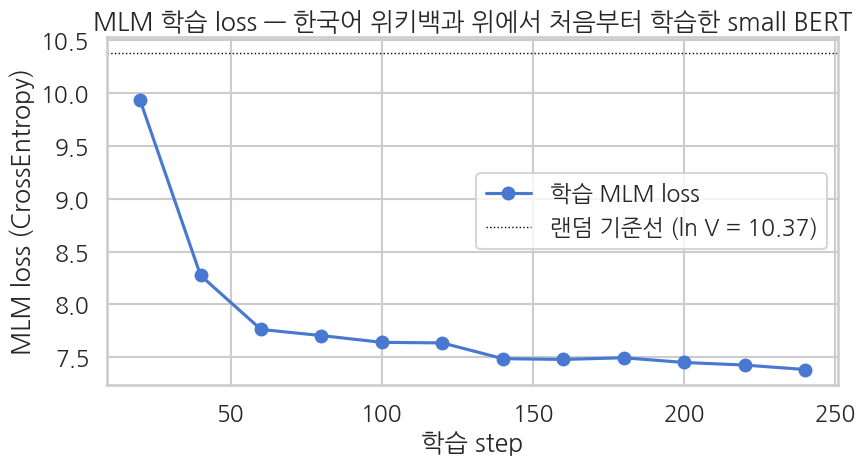
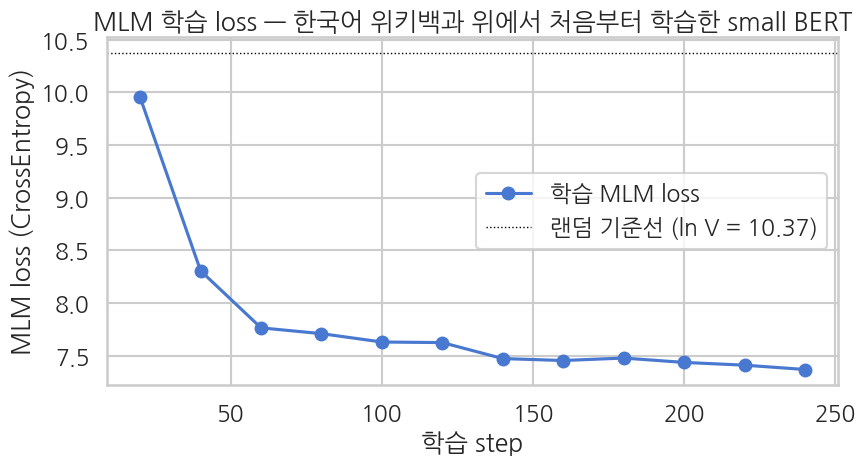
Ch 22 원고 tex 재생성 — 검수 수정·시드 재실행 반영
notebook_to_tex.py --chapters 22 --use-executed, pandoc 2.19.2 (규정
버전 바이너리로 실행 — 3.x 노이즈 없음). SFT 지칭 ch:28, set_seed 코드,
시드 실행 출력·§7 산문·시간 표기 반영, 그림 2장 재실행본으로 교체.

Claude-Session: https://claude.ai/code/session_01F91RWb7mKbQgvrmJndMJWz

diff --git a/book/chapters/ch22_ko_bert_pretrain.tex b/book/chapters/ch22_ko_bert_pretrain.tex
@@ -231,7 +231,7 @@ L_{\text{MLM}} = -\frac{1}{\vert{}M\vert{}} \sum_{i \in M} \log P(x_i \mid x_{\s
 
 \subsection{\texorpdfstring{\inlinecode{labels\ =\ -100} 한 줄 환기}{labels = -100 한 줄 환기}}
 
-\inlinecode{DataCollatorForLanguageModeling} 이 가려지지 않은 자리에 \inlinecode{labels\ =\ -100} 을 채워 \emph{해당 위치의 CE loss 를 무시} 합니다 (PyTorch \inlinecode{CrossEntropyLoss} 의 \inlinecode{ignore\_index} 기본값). 같은 트릭이 Phase 4 의 SFT (\ref{ch:27}장) 에서 \emph{prompt 자리를 가리는} 방식으로 다시 등장합니다 --- \emph{적용 자리만 정반대}. 한국어 MLM 에서도 트릭 자체는 \emph{완전히 동일}.
+\inlinecode{DataCollatorForLanguageModeling} 이 가려지지 않은 자리에 \inlinecode{labels\ =\ -100} 을 채워 \emph{해당 위치의 CE loss 를 무시} 합니다 (PyTorch \inlinecode{CrossEntropyLoss} 의 \inlinecode{ignore\_index} 기본값). 같은 트릭이 Phase 4 의 SFT (\ref{ch:28}장) 에서 \emph{prompt 자리를 가리는} 방식으로 다시 등장합니다 --- \emph{적용 자리만 정반대}. 한국어 MLM 에서도 트릭 자체는 \emph{완전히 동일}.
 
 
 
@@ -606,6 +606,8 @@ config = BertConfig(
 
 \Needspace{11\baselineskip}
 \begin{lstlisting}[firstnumber=17]
+set_seed(SEED)
+
 model = BertForMaskedLM(config)
 
 total = sum(p.numel() for p in model.parameters())
@@ -620,14 +622,15 @@ encoder = sum(
 )
 head = sum(
     p.numel() for n,
-    p in model.named_parameters() if "cls" in n,
-)
 \end{lstlisting}
 
 \noindent\emph{앞 블록은 앞에서 만든 중간 값을 다음 계산으로 넘기는 단계입니다. 이어지는 블록에서는 텍스트를 모델 입력 텐서로 바꾸는 단계로 넘어갑니다.}
 
 \Needspace{11\baselineskip}
 \begin{lstlisting}[firstnumber=33]
+    p in model.named_parameters() if "cls" in n,
+)
+
 print(f"Config: hidden={HIDDEN_SIZE}, layer={NUM_HIDDEN_LAYERS}, "
       f"head={NUM_ATTENTION_HEADS}, intermediate={INTERMEDIATE_SIZE}")
 print(f"max_position_embeddings: {MAX_POS_EMBED}")
@@ -641,15 +644,15 @@ print(
     f"{total/1e6:.2f} M)"
 )
 print(f"Trainable:           {trainable:>13,}")
-print(
-    f"  embeddings:        {emb:>13,}  ({emb/total:.1%})  (vocab {tokenizer.vocab_size} x hidden "
-    f"{HIDDEN_SIZE})"
 \end{lstlisting}
 
-\noindent\emph{앞 블록은 텍스트를 모델 입력 텐서로 바꾸는 단계입니다. 이어지는 블록에서는 앞에서 만든 중간 값을 다음 계산으로 넘기는 단계로 넘어갑니다.}
+\noindent\emph{앞뒤 블록은 모두 텍스트를 모델 입력 텐서로 바꾸는 단계입니다. 길이를 나누어 같은 흐름을 단계별로 확인합니다.}
 
 \Needspace{11\baselineskip}
 \begin{lstlisting}[firstnumber=49]
+print(
+    f"  embeddings:        {emb:>13,}  ({emb/total:.1%})  (vocab {tokenizer.vocab_size} x hidden "
+    f"{HIDDEN_SIZE})"
 )
 print(
     f"  encoder (4 layer): {encoder:>13,}  ("
@@ -749,9 +752,9 @@ print(f"loss positions:        {n_loss_pos:>4} / {total_tokens}  "
 \noindent\textbf{출력.}
 \begin{bookoutputbox}
 batch shape: input_ids=(2, 128), labels=(2, 128)
-masked tokens (call 1):   35 / 256  (13.67%)
-masked tokens (call 2):   26 / 256  (10.16%)
-loss positions:          45 / 256  (17.58%)  (labels != -100)
+masked tokens (call 1):   30 / 256  (11.72%)
+masked tokens (call 2):   27 / 256  (10.55%)
+loss positions:          35 / 256  (13.67%)  (labels != -100)
 \end{bookoutputbox}
 \par\vspace{0.9em}
 
@@ -779,7 +782,7 @@ loss positions:          45 / 256  (17.58%)  (labels != -100)
 \textbf{나머지 85\%} 의 토큰은 \inlinecode{labels\ =\ -100} 으로 두어 \emph{loss 계산에서 제외} 됩니다 (PyTorch CE 의 \inlinecode{ignore\_index} 기본값). 즉 한 step 의 MLM loss 는 \emph{선택된 15\% 자리만} 모아 평균한 값.
 
 \begin{quote}
-이 \inlinecode{labels\ =\ -100} 트릭은 BERT-만의 것이 아닙니다 --- Phase 4 GPT 사전학습은 \emph{거의 모든 토큰} 을 학습 (\inlinecode{labels\ =\ input\_ids}), SFT (\ref{ch:27}장) 는 \emph{prompt 만 -100, 답변만 학습}. 같은 트릭, 정반대 자리. \ref{ch:21}장 / 영어 짝과 동일한 풀버전 시각화로 한국어 환경에서도 직접 확인.
+이 \inlinecode{labels\ =\ -100} 트릭은 BERT-만의 것이 아닙니다 --- Phase 4 GPT 사전학습은 \emph{거의 모든 토큰} 을 학습 (\inlinecode{labels\ =\ input\_ids}), SFT (\ref{ch:28}장) 는 \emph{prompt 만 -100, 답변만 학습}. 같은 트릭, 정반대 자리. \ref{ch:21}장 / 영어 짝과 동일한 풀버전 시각화로 한국어 환경에서도 직접 확인.
 \end{quote}
 
 
@@ -1061,20 +1064,20 @@ for sent in test_sentences:
 \begin{bookoutputbox}
 Training Loss  Validation Loss  Epoch
 -------------  ---------------  -----
-No log         10.425517        0
+No log         10.421567        0
 ==============================================================================
 BEFORE pretraining  (random init body)
 ==============================================================================
-  eval_loss       : 10.4255   (random baseline ln V = 10.3735)
-  eval_perplexity : 33,709     (random baseline V    = 32,000)
+  eval_loss       : 10.4216   (random baseline ln V = 10.3735)
+  eval_perplexity : 33,576     (random baseline V    = 32,000)
 input: 대한민국의 수도는 [MASK]이다.
-  top-5 before pretraining: ['##희정', '해석', '찬성', '전한', 'par']
+  top-5 before pretraining: ['만지', '기구', '등', '자산운용', '청약']
 
 input: 태양계에는 행성이 [MASK] 개 있다.
-  top-5 before pretraining: ['이씨', '저지른', '1958', '몰입', '끄집어내']
+  top-5 before pretraining: ['놀림', '한입', '여전히', '뒤졌', '강판']
 
 input: 이 영화 정말 [MASK].
-top-5 before pretraining: ['계약서', '서귀', '스페인어', '드세요', 'William']
+  top-5 before pretraining: ['U+4EE5', '야경', '영남대', '##다랗', '학살']
 ...
 \end{bookoutputbox}
 \par\vspace{0.9em}
@@ -1171,14 +1174,14 @@ print(
 \begin{bookoutputbox}
 Training Loss  Validation Loss  Epoch
 -------------  ---------------  -----
-7.385564       7.513839         2
+7.368665       7.493273         2
 === eval (held-out Korean Wikipedia paragraphs) ===
-               eval_loss: 7.5138
+               eval_loss: 7.4933
 
-  MLM loss:               7.5138
-  perplexity (exp loss):  1833.24
+  MLM loss:               7.4933
+  perplexity (exp loss):  1795.92
   random baseline PPL:    32,000  (uniform over vocab)
-  -> model narrowed vocab to approx. 1833 candidates per masked position
+  -> model narrowed vocab to approx. 1796 candidates per masked position
 \end{bookoutputbox}
 \par\vspace{0.9em}
 
@@ -1212,8 +1215,8 @@ print(metric_compare.round(4).to_string(index=False))
 \begin{bookoutputbox}
 Before vs After -- eval metrics
          metric  before (random)  after (2 epoch)  random baseline
-      eval_loss          10.4255           7.5249          10.3735
-eval_perplexity       33708.8968        1853.5880       32000.0000
+      eval_loss          10.4216           7.5036          10.3735
+eval_perplexity       33576.0053        1814.5088       32000.0000
 \end{bookoutputbox}
 \par\vspace{0.9em}
 
@@ -1232,7 +1235,7 @@ eval_perplexity       33708.8968        1853.5880       32000.0000
 
 \subsection{\texorpdfstring{표준 KLUE-BERT 기준점}{표준 KLUE-BERT 기준점}}
 
-우리 작은 BERT (10M, 한국어 위키 5K paragraphs \(\times\) 2 epoch) 의 top-5 가 \emph{방향성은 맞지만 정답이 잘 안 보이는} 이유는 단순합니다 --- \textbf{학습 데이터·모델 크기·학습 시간 모두 부족}. \emph{그럼 학습이 충분히 잘 되면 어떤 결과가 나오나?} 의 답을 같은 한국어 문장에 표준 \inlinecode{klue/bert-base} (110M, 약 8.4B 토큰 대규모 한국어 코퍼스) 를 적용해 직접 봅니다.
+우리 작은 BERT (10M, 한국어 위키 5K paragraphs \(\times\) 2 epoch) 의 top-5 가 \emph{고빈도 기능 토큰에 머무는} 이유는 단순합니다 --- \textbf{학습 데이터·모델 크기·학습 시간 모두 부족}. \emph{그럼 학습이 충분히 잘 되면 어떤 결과가 나오나?} 의 답을 같은 한국어 문장에 표준 \inlinecode{klue/bert-base} (110M, 약 8.4B 토큰 대규모 한국어 코퍼스) 를 적용해 직접 봅니다.
 
 같은 토크나이저 (\inlinecode{klue/bert-base}) 를 쓰고 있으므로 \emph{모델만 바꿔} 두 결과를 나란히.
 
@@ -1298,25 +1301,25 @@ if torch.cuda.is_available():
 \begin{itemize}
 \tightlist
 \item
-  \textbf{\inlinecode{eval\_loss}}: random baseline \texttt{ln\ V\ \$\textbackslash{}approx\$\ 10.37} 에서 약 5-7 부근까지 떨어졌으면 본체가 \emph{언어 구조 일부} 를 학습. \emph{완전한} 한국어 표상은 아니어도 \inlinecode{klue/bert-base} 가 학습한 것의 \emph{방향} 은 맞춤.
+  \textbf{\inlinecode{eval\_loss}}: random baseline \texttt{ln\ V\ \$\textbackslash{}approx\$\ 10.37} 에서 \textbf{약 7.5 부근} 까지 내려옵니다 --- \emph{어떤 토큰이 흔한가} 를 막 새긴 단계 (정확값은 위 §7-1 셀 출력이 단일 출처). \emph{완전한} 한국어 표상에는 한참 못 미치지만, \inlinecode{klue/bert-base} 가 학습한 것의 \emph{방향} 은 맞춥니다.
 \item
-  \textbf{\inlinecode{perplexity}}: 32,000 (vocab 전체) 에서 수십-수백 부근으로. \emph{마스크 자리마다 후보를 약 50-500 개로 좁힌 상태} 라는 직관적 해석.
+  \textbf{\inlinecode{perplexity}}: 33,000 안팎 (\(\approx\) vocab 전체) 에서 \textbf{2,000 안팎} 으로. \emph{마스크 자리마다 후보를 32,000 개에서 약 2,000 개 수준으로 좁힌 상태} 라는 직관적 해석 --- 아직 \emph{흔한 토큰들} 의 범위를 크게 벗어나지 못한 수준입니다.
 \item
   \textbf{top-5 토큰} (3-way 비교):
 
   \begin{itemize}
   \tightlist
   \item
-    \emph{before (random)}: 자주 등장하는 \emph{조사·어미·특수문자} (\inlinecode{\#\#요}, \inlinecode{\#\#어}, \inlinecode{.}, \inlinecode{는}, \inlinecode{이}) --- random init 이지만 logits 가 미세하게 흔들려 \emph{통계적 빈도} 높은 토큰만 뽑힘.
+    \emph{before (random)}: random init 의 logits 는 학습 신호가 없는 난수라 \textbf{빈도와 무관한 토큰들이 무작위로} 뽑힙니다 --- 희귀 명사·조각 토큰·한자 등이 뒤섞인 목록 (\inlinecode{set\_seed(SEED)} 로 고정했으므로 다시 돌리면 같은 목록, 시드를 바꾸면 완전히 달라집니다).
   \item
-    \emph{ours (small BERT, 위키 5K paragraphs \(\times\) 2 epoch)}: 한국어 어미·내용어 일부가 섞이기 시작 --- 위키 도메인은 \emph{방향성이 보이지만} 정답 (\inlinecode{서울}, \inlinecode{8} 등) 이 top-5 안에 \emph{안정적으로} 들어오지는 못함. \textbf{데이터·모델 크기 부족의 한계}.
+    \emph{ours (small BERT, 위키 5K paragraphs \(\times\) 2 epoch)}: 네 문장 모두 \inlinecode{.}·\inlinecode{\#\#의}·\inlinecode{,} 같은 \textbf{구두점·조사 계열 고빈도 토큰} 이 top-5 를 채웁니다 --- \emph{어떤 토큰이 흔한가} 를 막 배운 단계로, 내용어·정답 (\inlinecode{서울}, \inlinecode{8} 등) 은 아직 보이지 않습니다. \textbf{빈도 통계는 새겼지만 문맥·내용은 아직} --- 이게 데이터·모델 크기 부족의 정직한 모습.
   \item
-    \emph{ref (klue/bert-base, 약 8.4B 토큰)}: 위키 도메인은 \emph{정답이 top-1} --- \inlinecode{서울}, \inlinecode{여덟} 같은 자연스러운 답. NSMC 도메인 (다른 도메인) 도 \emph{감성 형용사·부사} (\inlinecode{재미있}, \inlinecode{정말}, \inlinecode{너무}) 가 자연스럽게 top-5 에 들어옴. \textbf{이게 사전학습이 충분히 잘 됐을 때의 모습}.
+    \emph{ref (klue/bert-base, 약 8.4B 토큰)}: \emph{수도} 문장은 정답 \inlinecode{서울} 이 top-1. 다만 \emph{행성 개수} 문장은 \inlinecode{여러}·\inlinecode{몇} 같은 수 관형사가 나올 뿐 정답 \inlinecode{여덟} 은 top-5 에 없습니다 --- 대규모 사전학습도 \emph{세상 지식 회상} 까지 보장하지는 않습니다. NSMC 도메인은 \inlinecode{너무}·\inlinecode{정말} 같은 감성 부사가 자연스럽게 top-5 에 들어옵니다. \textbf{이게 사전학습이 충분히 잘 됐을 때의 모습}.
   \end{itemize}
 \end{itemize}
 
 \begin{quote}
-\textbf{세 모델의 격차가 정확히 \emph{데이터 규모 + 모델 크기 + 학습 시간} 의 격차} --- 우리 작은 BERT (10M, 위키 5K paragraphs, 2 epoch) \(\to\) reference (110M, 약 8.4B tokens) 사이에 \emph{데이터 수천 배, 파라미터 11배}. 그 격차가 top-5 의 \emph{질적 차이} 로 정확히 드러납니다.
+\textbf{세 모델의 격차가 정확히 \emph{데이터 규모 + 모델 크기 + 학습 시간} 의 격차} --- 우리 작은 BERT (10M, 위키 5K paragraphs, 2 epoch) \(\to\) reference (110M, 약 8.4B tokens) 사이에 \emph{데이터 약 1.7만 배 (약 50만 \(\to\) 8.4B 토큰), 파라미터 11배}. 그 격차가 top-5 의 \emph{질적 차이} 로 정확히 드러납니다.
 \end{quote}
 
 이 장의 작은 BERT 는 \emph{한국어 위키 paragraphs 5K \(\times\) 2 epoch} 로 학습한 \emph{일반 도메인 mini BERT}. 위키 도메인은 직접 본 분포라 향상이 빠르지만, NSMC 영화 리뷰는 \emph{다른 도메인} 이라 fine-tune 단계에서 적응이 필요합니다 --- 이게 \emph{진짜 사전학습 \(\to\) fine-tune 패러다임} 의 핵심. \ref{ch:23}장에서 NSMC 이진 분류로 fine-tune 할 때 진짜 비교 --- \emph{우리가 직접 만든 작은 한국어 BERT (일반 도메인 5K, 약 10M)} vs \emph{\ref{ch:15}장의 \inlinecode{klue/bert-base} (대규모 일반 코퍼스, 약 110M)}.
@@ -1384,8 +1387,8 @@ for f in sorted(os.listdir(SAVE_DIR)):
 변형 축 & 이 장 (기본) & 변형 예 & 예상 효과 \\
 \midrule
 
-\inlinecode{N\_TRAIN\_TEXT} & 5,000 & 30,000 & 한 epoch 시간 약 6배, loss 하락폭 큼. 30분 안엔 1 epoch 만 가능 \\
-\inlinecode{num\_train\_epochs} & 2 & 3 & eval loss 약간 하락, perplexity 완만히 하락(8-10 epoch 이후 평탄) \\
+\inlinecode{N\_TRAIN\_TEXT} & 5,000 & 30,000 & loss 하락폭 큼. 학습 자체는 1 epoch 약 1분 수준 (실측 5K 2 epoch 0.3분 \(\times\) 약 6배) --- 30분 룰의 상한은 학습이 아니라 다운로드·토큰화 \\
+\inlinecode{num\_train\_epochs} & 2 & 3 & eval loss 소폭 하락 --- 작은 코퍼스라 과적합 주의, 효과는 셀 출력으로 확인 \\
 \inlinecode{BLOCK\_SIZE} & 128 & 64 & 블록 수 약 2배 증가, 한 블록 짧아져 \emph{문맥} 줄음 \\
 \inlinecode{mlm\_probability} & 0.15 & 0.20-0.25 & 한국어는 형태소 풍부해 \emph{가릴 자리} 가 많음. 학습 신호 약간 늘지만 trade-off 있음 (FAQ Q2 참고) \\
 데이터 출처 & 한국어 Wikipedia (5K paragraphs) & 더 많은 위키 + 모두의 말뭉치 + 뉴스 & klue/bert-base 의 약 8.4B 토큰에 더 가까이 --- 단, 토큰 수 늘리면 학습 시간 비례 증가 \\
@@ -1395,7 +1398,7 @@ for f in sorted(os.listdir(SAVE_DIR)):
 \end{booktable}
 
 \begin{quote}
-\textbf{T4 30분 룰 안에서 가능한 가장 큰 개선} --- \inlinecode{N\_TRAIN\_TEXT\ =\ 20000}, 1 epoch 정도가 한계. \ref{ch:23}장에서 \emph{얼마나 도움 됐는지} 가 진짜 검증.
+\textbf{T4 30분 룰 안에서 가능한 가장 큰 개선} --- 학습 시간만 보면 \inlinecode{N\_TRAIN\_TEXT} 를 수만 단위로 늘려도 여유가 큽니다 (상한은 다운로드·토큰화와 메모리). \ref{ch:23}장에서 \emph{얼마나 도움 됐는지} 가 진짜 검증.
 \end{quote}
 
 
@@ -1490,9 +1493,9 @@ loss = loss_fn(logits, labels)
 \begin{itemize}
 \tightlist
 \item
-  \textbf{GPT 사전학습} (\ref{ch:24}--\ref{ch:26}장): \inlinecode{labels\ =\ input\_ids.clone()} \(\to\) 사실상 \emph{모든 자리} 학습 (pad 만 -100)
+  \textbf{GPT 사전학습·계속 사전학습} (\ref{ch:24}--\ref{ch:27}장): \inlinecode{labels\ =\ input\_ids.clone()} \(\to\) 사실상 \emph{모든 자리} 학습 (pad 만 -100)
 \item
-  \textbf{SFT / Instruction Tuning} (\ref{ch:27}장): \texttt{labels{[}prompt\_mask{]}\ =\ -100} \(\to\) \emph{답변 부분만} 학습
+  \textbf{SFT / Instruction Tuning} (\ref{ch:28}장): \texttt{labels{[}prompt\_mask{]}\ =\ -100} \(\to\) \emph{답변 부분만} 학습
 \end{itemize}
 
 세 곳 모두 같은 \inlinecode{-100} 트릭, 적용 자리만 다릅니다. \ref{ch:21}장 §3 의 \emph{labels = -100 thread} 마크다운에 풀버전 설명.
